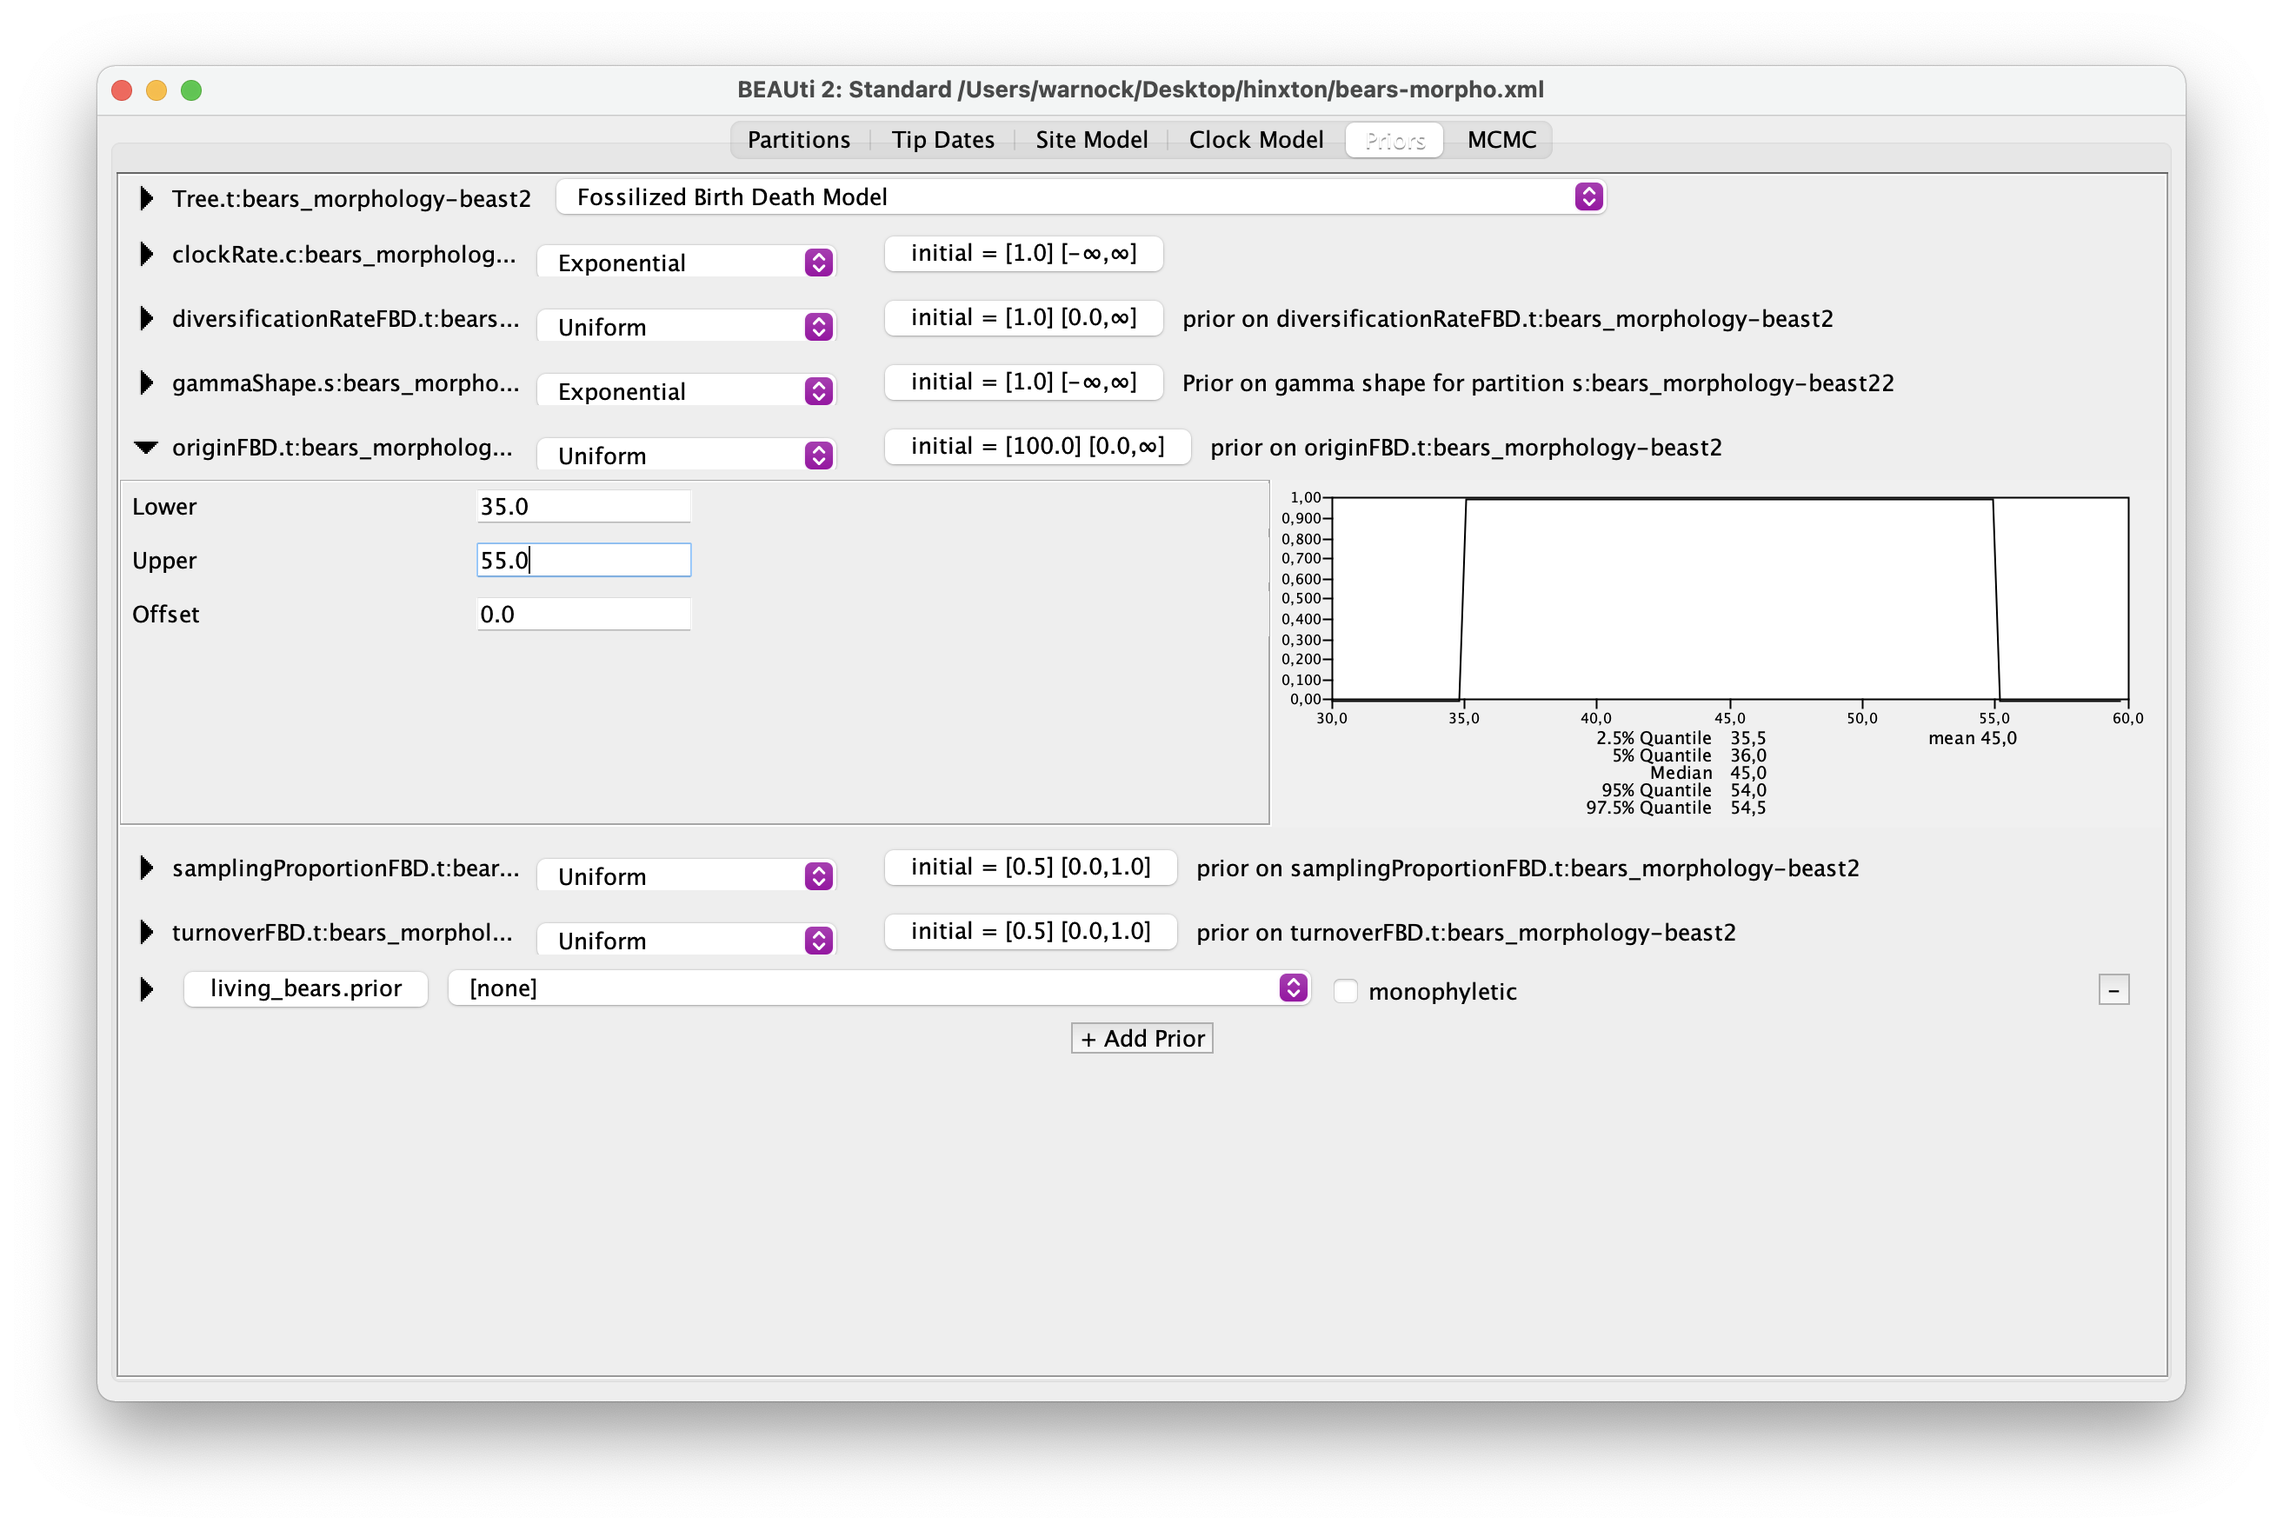
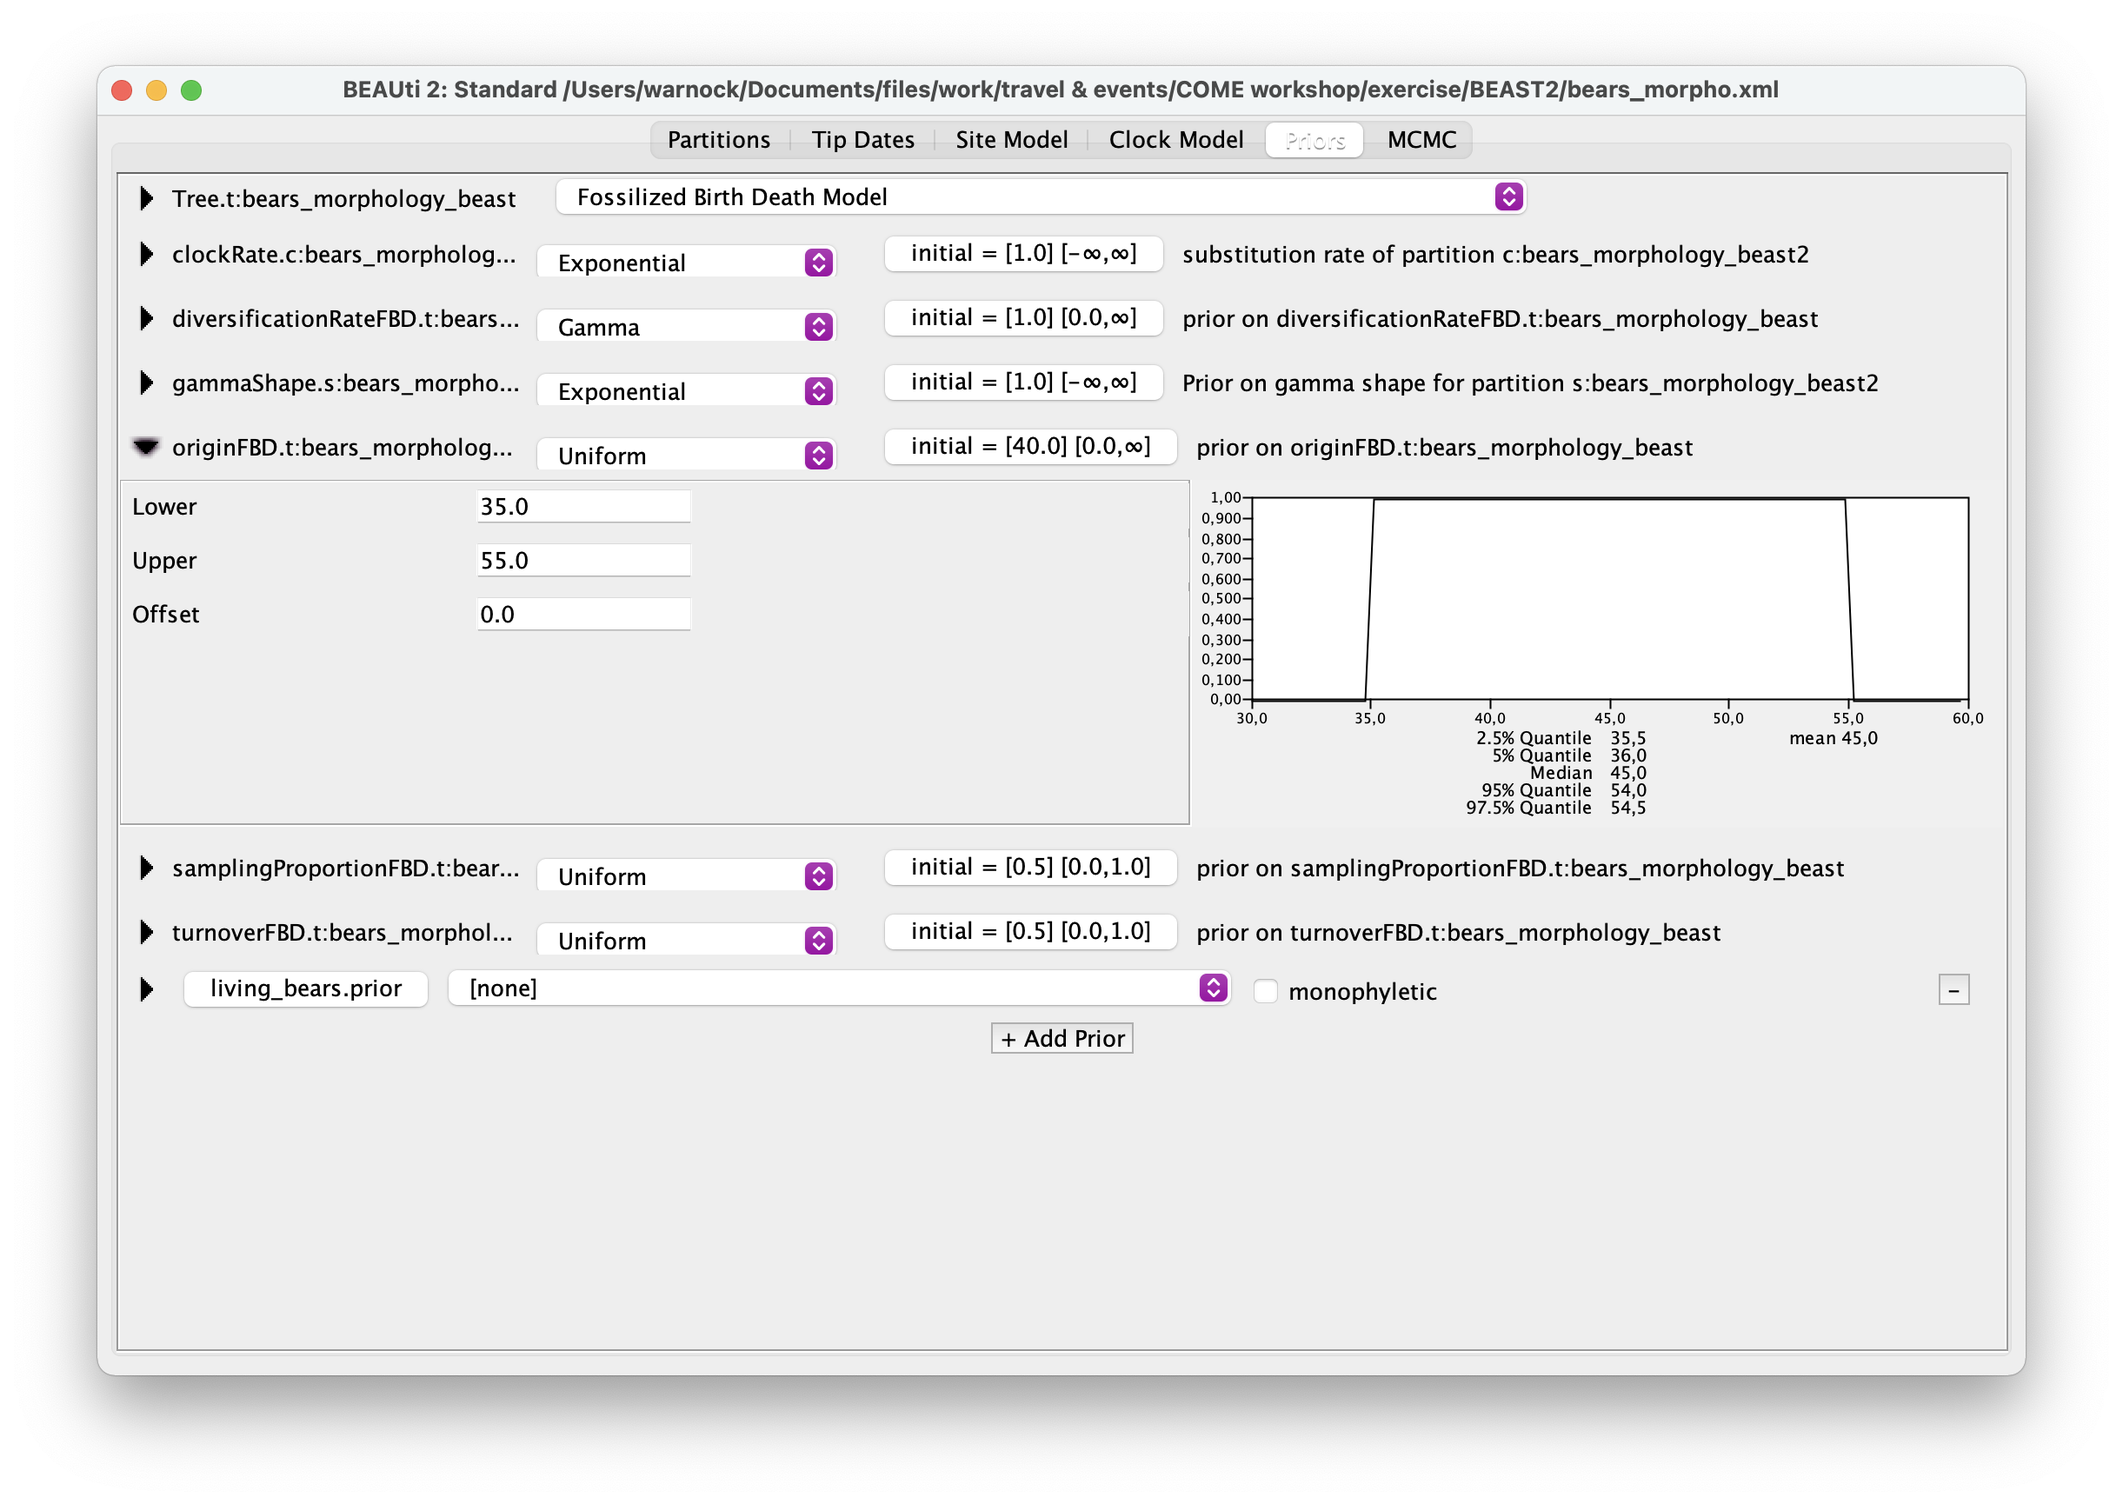
update beast2 exercise

Changed region(s): [[0.0311, 0.0312, 0.9648, 0.9052], [0.2801, 0.6243, 0.3112, 0.6555]]

diff --git a/exercise-02.html b/exercise-02.html
@@ -274,6 +274,18 @@ id="bayesian-tree-inference-using-the-fossilised-birth-death-process-in-beast2"
 class="section level1">
 <h1>Bayesian tree inference using the fossilised birth-death process in
 BEAST2</h1>
+<div id="contents" class="section level4">
+<h4>Contents</h4>
+<ul>
+<li><a href="#read">Read the data</a></li>
+<li><a href="#tips">Tip dates</a></li>
+<li><a href="#site">The site model</a></li>
+<li><a href="#clock">Clock model</a></li>
+<li><a href="#prior">Priors</a></li>
+<li><a href="#mcmc">MCMC settings</a></li>
+<li><a href="#output">Evaluating the output</a></li>
+<li><a href="#next">Next tasks</a></li>
+</ul>
 <p>In this exercise we’ll estimate a time tree of bears under the
 fossilised birth-death (FBD) process. We’ll use a <a
 href="data/bears_morphology_beast.nex">morphological matrix</a> that
@@ -286,17 +298,26 @@ tutorial</a> written by Tracy Heath. The original contains lots of
 useful background information.</p>
 <p>For this exercise create a folder called
 <code>FBD_exercise_BEAST2</code> (or whatever you want).</p>
+</div>
+<div id="software" class="section level4">
+<h4>Software</h4>
+<p>Download the software <a href="https://www.beast2.org">BEAST2 v2.6 or
+above</a>, <a href="https://beast.community/tracer">Tracer v1.7</a> and
+<a href="https://beast.community/figtree">FigTree</a> if you haven’t
+done so already.</p>
 <p>BEAST2 uses an <code>xml</code> file as input, containing all the
 model specifications, including prior parameters and MCMC settings. You
 can create the <code>xml</code> file using the BEAST2 accessory program
 BEAUti.</p>
-<div id="packages" class="section level2">
-<h2>Packages</h2>
+</div>
+<div id="packages" class="section level4">
+<h4>Packages</h4>
 <p>BEAST2 is similar to RevBayes in providing flexible and modular
 options for analysing phylogenetic data in a Bayesian framework. One
 practical difference is the package structure used by BEAST2. There is a
 suite of models in the core BEAST2 program, but there are many other
-models available via packages that you can install using BEAUti.</p>
+models available via packages that you can install also using
+BEAUti.</p>
 <p>For the analysis in this tutorial we need to install the
 <code>SA</code> and <code>MM</code> packages, both developed by Sasha
 Gavryushkina.</p>
@@ -305,9 +326,9 @@ Gavryushkina.</p>
 bottom. This should bring up a confirmation message.</p>
 <p>Restart BEAUTi and we can begin setting up the analysis.</p>
 </div>
-<div id="reading-the-data" class="section level2">
+<div id="read" class="section level2">
 <h2>Reading the data</h2>
-<p>To read in your data, simply drag your nexus file into the partitions
+<p>To read in your data, simply drag your nexus file into the Partitions
 panel. Or go to File &gt; Import Alignment and navigate to your nexus
 file.</p>
 <p>This will bring up a box that asks you to clarify what type of data
@@ -324,13 +345,13 @@ handle this in different ways.</p>
 this.</p>
 <p><img src="beauti-01.png" width="80%" style="padding:10px" /></p>
 </div>
-<div id="tip-dates" class="section level2">
+<div id="tips" class="section level2">
 <h2>Tip dates</h2>
 <p>Move on to the Tip Dates panel and select <code>Use tip dates</code>.
 You might have noticed that the names in the nexus file are appended by
 a number. This is the age information associated with each species.
 BEAUti can parse this information.</p>
-<p>Select auto-configure and then <code>use everything</code> &gt; after
+<p>Select Auto-configure and then <code>use everything</code> &gt; after
 last <code>_</code>. Back in the main window also make sure to select
 <code>Before the present</code> from the drop down menu.
 <code>Since some time in the past</code> is used more commonly for
@@ -344,14 +365,14 @@ in the following BEAUti panels:</p>
 <ol style="list-style-type: decimal">
 <li>The Site Model panel is for the substitution model</li>
 <li>The Clock Model panel is for the clock model</li>
-<li>The Priors panel is for the time tree model <strong>and</strong> all
-the other priors</li>
+<li>The Priors panel is for the time tree model <em>plus</em> all other
+priors</li>
 </ol>
 <p>Important note: there are many more options than the ones you’ll see
 going through the panels in this tutorial. More options are available
 via other packages or you can directly edit the xml.</p>
 </div>
-<div id="the-site-model" class="section level2">
+<div id="site" class="section level2">
 <h2>The site model</h2>
 <p>Head towards the Site Model panel. Because we’re working with
 discrete morphological data, we’re only presented with a limited set of
@@ -368,13 +389,13 @@ will become the starting value.</p>
 <p>If you had molecular data or multiple partitions, more options would
 appear in this panel.</p>
 </div>
-<div id="clock-model" class="section level2">
+<div id="clock" class="section level2">
 <h2>Clock model</h2>
 <p>Move onto the Clock Model panel and simply leave the Strict Clock
 option in place.</p>
 <p><img src="beauti-02b.png" width="80%" style="padding:10px" /></p>
 </div>
-<div id="priors" class="section level2">
+<div id="prior" class="section level2">
 <h2>Priors</h2>
 <p>The Priors panel is where a lot of juicy choices happen. Here you
 will be presented with the tree model options, along with prior options
@@ -392,11 +413,12 @@ sampling proportion option. We’re also fixing Rho. You can leave this as
 <p><img src="beauti-03.png" width="80%" style="padding:10px" /></p>
 <p>Now we’ve set up the tree model, let’s move onto set up all the other
 priors. These are presented below the tree model toggle in alphabetical
-order. Remember that it’s bad practice to stick with the default priors,
-unless you have good reason to.</p>
-<p>First let’s deal with the prior on the shape parameter used for the
-shape parameter in the Gamma sites model. For this we’ll use an
-exponential distribution with a mean of = 1.</p>
+order. I’ll go through them in the following order: substitution model,
+clock model, FBD model. Remember that it’s bad practice to stick with
+the default priors, unless you have good reason to.</p>
+<p>First let’s deal with the prior on the shape parameter of the Gamma
+sites model. For this we’ll use an exponential distribution with a mean
+of = 1.</p>
 <p><img src="beauti-04.png" width="80%" style="padding:10px" /></p>
 <p>Select the clock rate. The default prior on this is a uniform
 distribution between 0 and infinity - this is obviously not a good prior
@@ -410,19 +432,20 @@ class="math inline">\(\alpha\)</span> = 2.0 and <span
 class="math inline">\(\beta\)</span> = 0.1, resulting in a mean around
 0.1.</p>
 <p><img src="beauti-05b.png" width="80%" style="padding:10px" /></p>
-<p>Then let’s specify the sampling proportion and turnover parameters.
+<p>Then let’s look at the sampling proportion and turnover parameters.
 These both lie between 0 and 1, so the default prior of a uniform
 distribution between 0 and 1 is a reasonable choice, in the absence of
-other information about these parameter values. Let’s leave these as
+other information about these parameter values. We’ll leave these as
 they are.</p>
 <p><img src="beauti-07.png" width="80%" style="padding:10px" /></p>
 <p>Now we’ll specify a prior on the origin time parameter. We’ll use the
 oldest bear fossil as a minimum (= 35.0) and a recent estimate for the
 age of carnivores as a maximum (= 55.0). We also need to ensure the
-starting value for the origin is within the bounds. This is currently
-set to 100. Change it to something like 40, so it doesn’t violate the
-bounds.</p>
-<p><img src="beauti-07.png" width="80%" style="padding:10px" /></p>
+starting value for the origin is within these bounds. This is currently
+set to 100, in the box that says <code>initial = [100.0]</code>. Change
+it to something like 40, so it doesn’t violate fall outside the minimum
+and maximum values.</p>
+<p><img src="beauti-07b.png" width="80%" style="padding:10px" /></p>
 <p>Finally, we’ll create a clade constraint to monitor the age of all
 living bears. Click <code>+ Add Prior</code> and select MRCA (= most
 recent common ancestor) prior. Put the following 8 taxa on the righthand
@@ -432,24 +455,26 @@ maritimus</em>, <em>Helarctos malayanus</em>, <em>Ursus americanus</em>,
 <em>Ursus thibetanus</em>. Give the clade a label, e.g.,
 <code>living_bears</code>.</p>
 <p><img src="beauti-08.png" width="80%" style="padding:10px" /></p>
-<p>Leave the <code>monophyletic</code> box unchecked here because we
-don’t want to enforce monophyly of this group, as there might be fossils
-also belonging to this clade. Note this is how you define nodes for
+<p>Leave the <code>monophyletic</code> box unchecked because we don’t
+want to enforce the monophyly of this group, as there might be fossils
+that also belong to this clade. Note this is how you define nodes for
 specifying node calibrations in BEAUti. After defining a clade, you can
 then select a distribution from the drop down menu associated with your
-node.</p>
+node. See <a
+href="https://taming-the-beast.org/tutorials/Introduction-to-BEAST2/">this
+tutorial</a> for more details.</p>
 </div>
-<div id="mcmc-settings" class="section level2">
+<div id="mcmc" class="section level2">
 <h2>MCMC settings</h2>
 <p>Navigate to the MCMC panel to finalise the set up. Our dataset is
-small, so let’s go with <code>100000</code> for the Chain Length. Leave
+small, so let’s go with <code>1000000</code> for the Chain Length. Leave
 the Store Every and Pre Burnin options as they are.</p>
 <p>You can then use the <code>tracelog</code> and <code>treelog</code>
 toggles to specify the logging frequency. Let’s change the logging
-frequency for both of these to <code>100</code>, so we end up with 10000
-posterior samples. You can also change the output file names here. The
-trees file will keep the same prefix as the log file if you don’t change
-the default <code>$(tree)</code>.</p>
+frequency for both of these to <code>10000</code>, so we end up with
+10000 posterior samples. You can also change the output file names here.
+The trees file will keep the same prefix as the log file if you don’t
+change the default <code>$(tree)</code>.</p>
 <p><img src="beauti-09.png" width="80%" style="padding:10px" /></p>
 </div>
 <div id="exporting-the-xml" class="section level2">
@@ -457,13 +482,16 @@ the default <code>$(tree)</code>.</p>
 <p>To create the input file for BEAST2 we need to export the
 <code>xml</code> file. Simply go to File &gt; Save As and navigate to
 where you want to save the file on your computer.</p>
-<p>Close BEAUti for now. If you have time, you can come back and set up
-more analyses using the molecular data.</p>
+<p>Leave BEAUti open for now. If you have time, you can come back and
+set up more analyses using the molecular data.</p>
 </div>
 <div id="running-beast2" class="section level2">
 <h2>Running BEAST2</h2>
-<p>This might take a while run pretty quickly. Meanwhile, you could move
-on to the <a href="#next">Next tasks</a>.</p>
+<p>Open the program BEAST. This will open a window that gives you the
+option to select your xml file. Navigate to your xml file and click
+<code>Run</code>!</p>
+<p>The analysis might take a while to run. Meanwhile, you could move on
+to the <a href="#next">Next tasks</a>.</p>
 </div>
 <div id="evaluating-the-output" class="section level2">
 <h2>Evaluating the output</h2>
@@ -506,16 +534,28 @@ notice any a bit odd?</p>
 </div>
 <div id="next" class="section level2">
 <h2>Next tasks</h2>
+<div id="add-molecular-sequence-data" class="section level3">
+<h3>Add molecular sequence data</h3>
 <p>Try adding the molecular sequence alignment that complements this
 dataset. This is an alignment with 1000 sites of the mitochondrial gene
 cytochrome oxidase B for 10 living species.</p>
-<p>There’s a bug in the latest version of BEAUti that makes it tricky to
-set up different partitions, so we’re going to use a precooked xml for
-this purpose. You can download this <a
-href="bears_morpho_cytb.xml">here</a> and get it running in BEAST.</p>
+<p>Note there’s a bug in BEAUti v2.6 that makes it tricky to set up
+different partitions, so you can use a precooked xml for this purpose.
+You can download this <a href="bears_morpho_cytb.xml">here</a> and get
+it running in BEAST.</p>
 <blockquote>
 <p>What differences do you notice in your output?</p>
 </blockquote>
+</div>
+<div id="running-the-analysis-under-the-fbd-model-only"
+class="section level3">
+<h3>Running the analysis under the FBD model only</h3>
+<p>To run the analysis “under the prior”, navigate to the MCMC panel
+back in BEAUti. At the bottom of this panel you should see a check box
+next to <code>Sample From Prior</code>. Select this option, change your
+output file names and export a new xml. Run this in BEAST2 as
+before.</p>
+</div>
 </div>
 </div>
 

diff --git a/exercise-01.html b/exercise-01.html
@@ -277,7 +277,7 @@ RevBayes</h1>
 <div id="contents" class="section level4">
 <h4>Contents</h4>
 <ul>
-<li><a href="#read">Read in the data</a></li>
+<li><a href="#read">Read the data</a></li>
 <li><a href="#time">Time tree model</a></li>
 <li><a href="#clock">Strict clock model</a></li>
 <li><a href="#Mk">Substitution model</a></li>
@@ -368,7 +368,7 @@ origin_time ~ dnUnif(37.0, 55.0)
 moves.append( mvSlide(origin_time, weight = 1.0) )</code></pre>
 <p>Finally, we’ll specify the FBD model, along with moves on the tree
 topology and branch lengths.</p>
-<pre class="r"><code>tree ~ dnFBDP(lambda = speciation_rate, mu = extinction_rate, psi = fossil_samp_rate, rho = rho, origin = origin_time, taxa = taxa)
+<pre class="r"><code>tree ~ dnFossilizedBirthDeath(lambda = speciation_rate, mu = extinction_rate, psi = fossil_samp_rate, rho = rho, origin = origin_time, taxa = taxa)
 
 # moves to search tree space
 moves.append( mvFNPR(tree, weight = 15.0) )
@@ -450,7 +450,7 @@ monitors.append( mnScreen(printgen = 100, age_extant, num_samp_anc, origin_time)
 <p>Finally, we’ll set up the MCMC run using the <code>mcmc</code>
 function, specifying our model, the vector of monitors and the vector of
 moves and run the chain for 100000 generations.</p>
-<pre class="r"><code>mymcmc = mcmc(mymodel, monitors, moves)
+<pre class="r"><code>mymcmc = mcmc(mymodel, monitors, moves, nruns = 2, combine = &quot;mixed&quot;)
 mymcmc.run(generations = 100000, tuningInterval = 1000)</code></pre>
 <p>Note we’ve added the argument <code>tuningInterval = 1000</code>.
 This tells the chain how long to spend optimising the MCMC moves.
